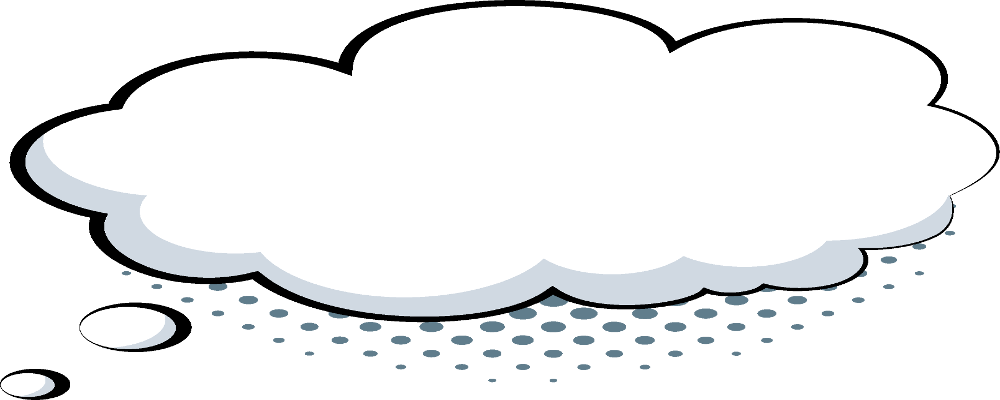
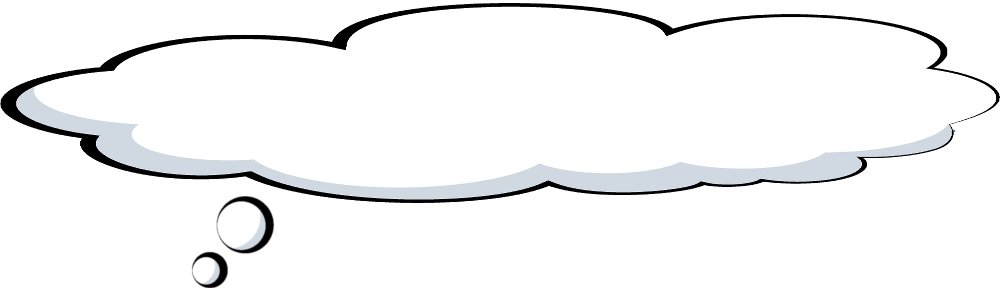
Added ThoughtBubble. Closes #85

diff --git a/AllPlanet/Debate/SpeechUI.cs b/AllPlanet/Debate/SpeechUI.cs
@@ -1,8 +1,6 @@
 using System;
-using AllPlanet.Planet;
 using Microsoft.Xna.Framework;
 using MonoDragons.Core.Engine;
-using MonoDragons.Core.EventSystem;
 using MonoDragons.Core.PhysicsEngine;
 using MonoDragons.Core.UserInterface;
 
@@ -16,7 +14,11 @@ namespace AllPlanet.Debate
         private Side _currentSide = Side.Left;
         private string _currentContent = "";
         private long _totalMessageTime = 0;
-        private string Image => "UI/speechbubble-" + _currentSide.ToString().ToLower();
+
+        private string Image => (_isThinking ? _thinking : _saying) + _currentSide.ToString().ToLower();
+        private string _saying = "UI/speechbubble-";
+        private string _thinking = "UI/thoughtbubble-";
+        private bool _isThinking;
 
         public void Update(TimeSpan deltaMillis)
         {
@@ -31,14 +33,18 @@ namespace AllPlanet.Debate
             if (_currentDisplayMessage.Equals(""))
                 return;
             
-            UI.DrawCenteredWithOffset(Image, new Vector2(800, 200), new Vector2(0, -300));
+            if (_isThinking)
+                UI.DrawCenteredWithOffset(Image, new Vector2(800, 240), new Vector2(0, -280));
+            else
+                UI.DrawCenteredWithOffset(Image, new Vector2(800, 200), new Vector2(0, -300));
             UI.DrawTextCentered(_currentContent, new Rectangle(480, -10, 660, 300), Color.Black);
         }
 
         public void Show(string message, Side side)
         {
+            _isThinking = message.StartsWith("*");
             _totalMessageTime = 0;
-            _currentDisplayMessage = message;
+            _currentDisplayMessage = _isThinking ? message.Replace("*", "") : message;
             _currentSide = side;
         }
 
